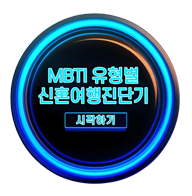
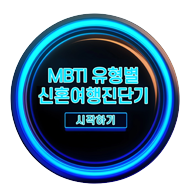
✅ 리터치된 start.png 적용 및 최종 버튼 위치 고정

diff --git a/pages/index.tsx b/pages/index.tsx
@@ -13,7 +13,7 @@ export default function Home() {
       className="relative w-full h-screen bg-cover bg-center"
       style={{ backgroundImage: 'url("/MAIN.jpg")' }}
     >
-      {/* 리터치된 start.png 버튼 (에펠탑 아래 배치) */}
+      {/* 최종 리터치된 start.png 버튼 - 에펠탑 아래 */}
       <div
         className="absolute"
         style={{
